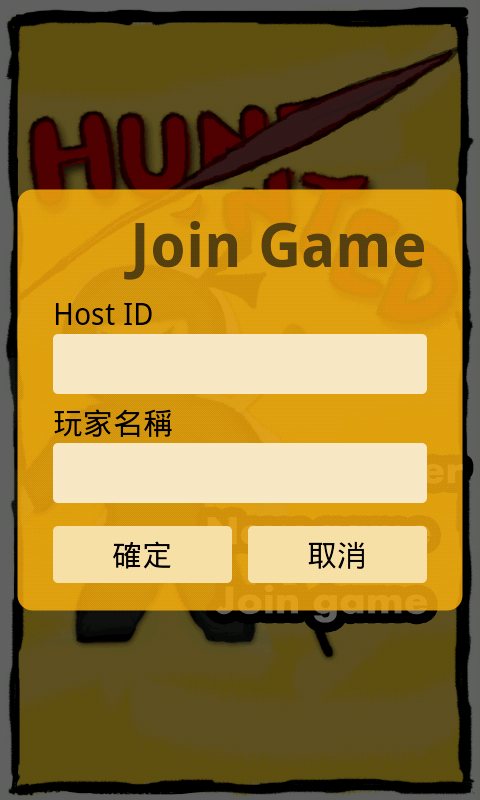
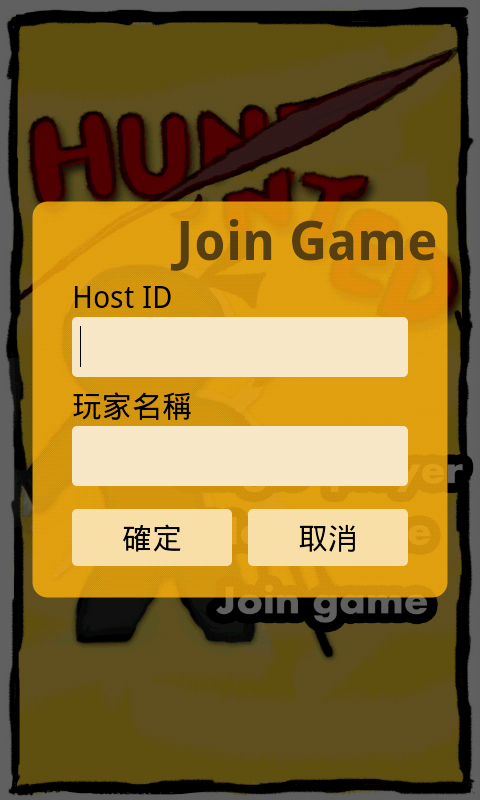
Update new game and join game screen

Changed region(s): [[0.0312, 0.2188, 0.9688, 0.7812]]

diff --git a/Hunted Client/gen/com/hunted/R.java b/Hunted Client/gen/com/hunted/R.java
@@ -17,7 +17,7 @@ public final class R {
         public static final int transparent=0x7f070000;
     }
     public static final class drawable {
-        public static final int blue=0x7f020027;
+        public static final int blue=0x7f020026;
         public static final int bottom=0x7f020000;
         public static final int botton=0x7f020001;
         public static final int botton2=0x7f020002;
@@ -33,68 +33,68 @@ public final class R {
         public static final int button_single_player=0x7f02000c;
         public static final int button_single_player2=0x7f02000d;
         public static final int button_status=0x7f02000e;
-        public static final int darkgray=0x7f020025;
-        public static final int dialog_bg=0x7f02000f;
-        public static final int flag=0x7f020010;
-        public static final int hubter=0x7f020011;
-        public static final int hunter_top=0x7f020012;
-        public static final int hunter_win=0x7f020013;
-        public static final int icon=0x7f020014;
-        public static final int loading=0x7f020015;
-        public static final int ninjaboy2=0x7f020016;
-        public static final int ninjaboy2_small=0x7f020017;
-        public static final int player=0x7f020018;
-        public static final int player_win=0x7f020019;
-        public static final int radar=0x7f02001a;
-        public static final int radar_red=0x7f02001b;
-        public static final int ready=0x7f02001c;
-        public static final int round_corner=0x7f02001d;
-        public static final int rounded_button=0x7f02001e;
-        public static final int rounded_textview=0x7f02001f;
-        public static final int start=0x7f020020;
-        public static final int time=0x7f020021;
-        public static final int title_background=0x7f020022;
-        public static final int top=0x7f020023;
-        public static final int touch=0x7f020024;
-        public static final int transparent_background=0x7f020028;
-        public static final int white=0x7f020026;
+        public static final int darkgray=0x7f020024;
+        public static final int flag=0x7f02000f;
+        public static final int hubter=0x7f020010;
+        public static final int hunter_top=0x7f020011;
+        public static final int hunter_win=0x7f020012;
+        public static final int icon=0x7f020013;
+        public static final int loading=0x7f020014;
+        public static final int ninjaboy2=0x7f020015;
+        public static final int ninjaboy2_small=0x7f020016;
+        public static final int player=0x7f020017;
+        public static final int player_win=0x7f020018;
+        public static final int radar=0x7f020019;
+        public static final int radar_red=0x7f02001a;
+        public static final int ready=0x7f02001b;
+        public static final int round_corner=0x7f02001c;
+        public static final int rounded_button=0x7f02001d;
+        public static final int rounded_textview=0x7f02001e;
+        public static final int start=0x7f02001f;
+        public static final int time=0x7f020020;
+        public static final int title_background=0x7f020021;
+        public static final int top=0x7f020022;
+        public static final int touch=0x7f020023;
+        public static final int transparent_background=0x7f020027;
+        public static final int white=0x7f020025;
     }
     public static final class id {
-        public static final int JoinDlgBtnCancel=0x7f090018;
-        public static final int JoinDlgBtnOk=0x7f090017;
-        public static final int JoinDlgLabelHostID=0x7f090013;
-        public static final int JoinDlgLabelLogin=0x7f090012;
-        public static final int JoinDlgLabelName=0x7f090015;
-        public static final int JoinDlgTxtHostID=0x7f090014;
-        public static final int JoinDlgTxtName=0x7f090016;
+        public static final int JoinDlgBtnCancel=0x7f090019;
+        public static final int JoinDlgBtnOk=0x7f090018;
+        public static final int JoinDlgLabelHostID=0x7f090014;
+        public static final int JoinDlgLabelLogin=0x7f090013;
+        public static final int JoinDlgLabelName=0x7f090016;
+        public static final int JoinDlgTxtHostID=0x7f090015;
+        public static final int JoinDlgTxtName=0x7f090017;
         public static final int TableRow1=0x7f090008;
-        public static final int btnTimeoutOK=0x7f090021;
-        public static final int button_start=0x7f090011;
-        public static final int cancel2=0x7f09000f;
-        public static final int editText1=0x7f09000c;
+        public static final int btnTimeoutOK=0x7f090022;
+        public static final int button_start=0x7f090012;
+        public static final int cancel2=0x7f090010;
+        public static final int editText1=0x7f09000d;
         public static final int game_menu_title=0x7f09000a;
-        public static final int icon=0x7f09001c;
-        public static final int icon2=0x7f09001e;
-        public static final int imageView1=0x7f090010;
+        public static final int icon=0x7f09001d;
+        public static final int icon2=0x7f09001f;
+        public static final int imageView1=0x7f090011;
         public static final int imgGameover=0x7f09000b;
-        public static final int imgTime=0x7f09001f;
-        public static final int itemSurrender=0x7f090022;
-        public static final int linearLayout1=0x7f09000d;
+        public static final int imgTime=0x7f090020;
+        public static final int itemSurrender=0x7f090023;
+        public static final int linearLayout1=0x7f09000e;
+        public static final int linearLayout2=0x7f09000c;
         public static final int listMenu=0x7f090007;
         public static final int mainLayout=0x7f090000;
-        public static final int message=0x7f09001a;
-        public static final int message_icon=0x7f090019;
-        public static final int message_time=0x7f09001b;
+        public static final int message=0x7f09001b;
+        public static final int message_icon=0x7f09001a;
+        public static final int message_time=0x7f09001c;
         public static final int myMapView1=0x7f090001;
         public static final int myTextView1=0x7f090002;
-        public static final int ok2=0x7f09000e;
+        public static final int ok2=0x7f09000f;
         public static final int relativeLayout1=0x7f090009;
-        public static final int text=0x7f09001d;
+        public static final int text=0x7f09001e;
         public static final int textView1=0x7f090003;
         public static final int textView2=0x7f090004;
         public static final int textView3=0x7f090006;
         public static final int textView4=0x7f090005;
-        public static final int txtTimeout=0x7f090020;
+        public static final int txtTimeout=0x7f090021;
     }
     public static final class layout {
         public static final int game=0x7f030000;
